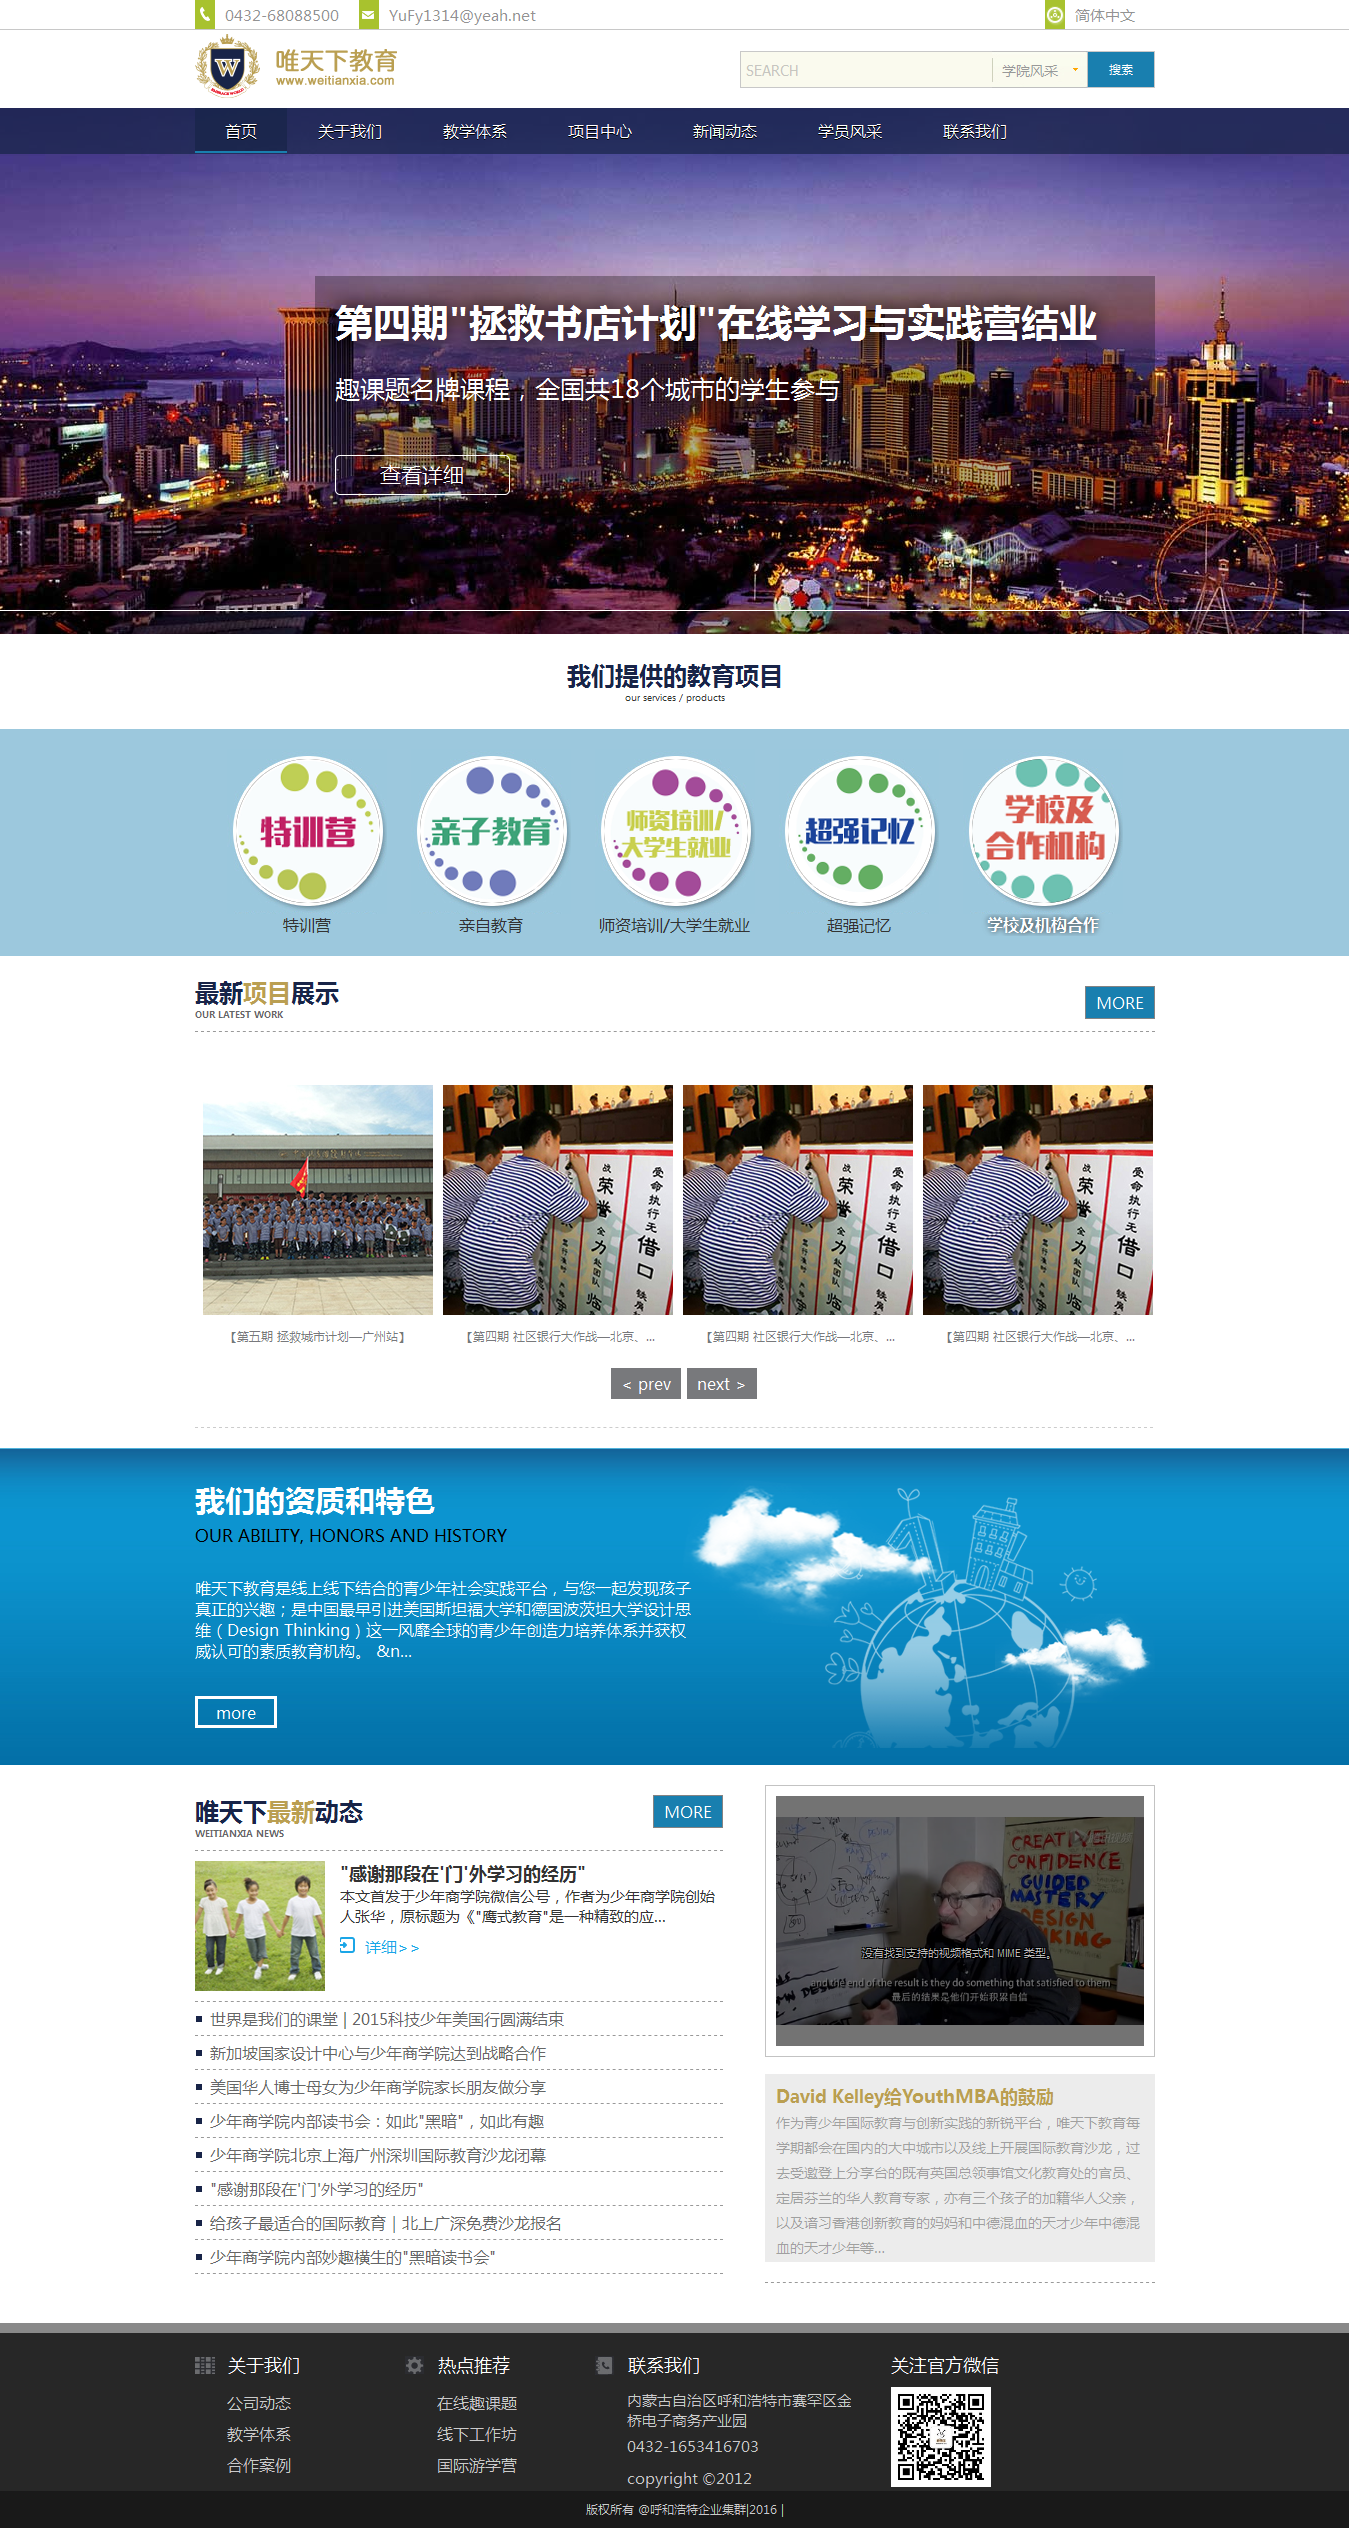
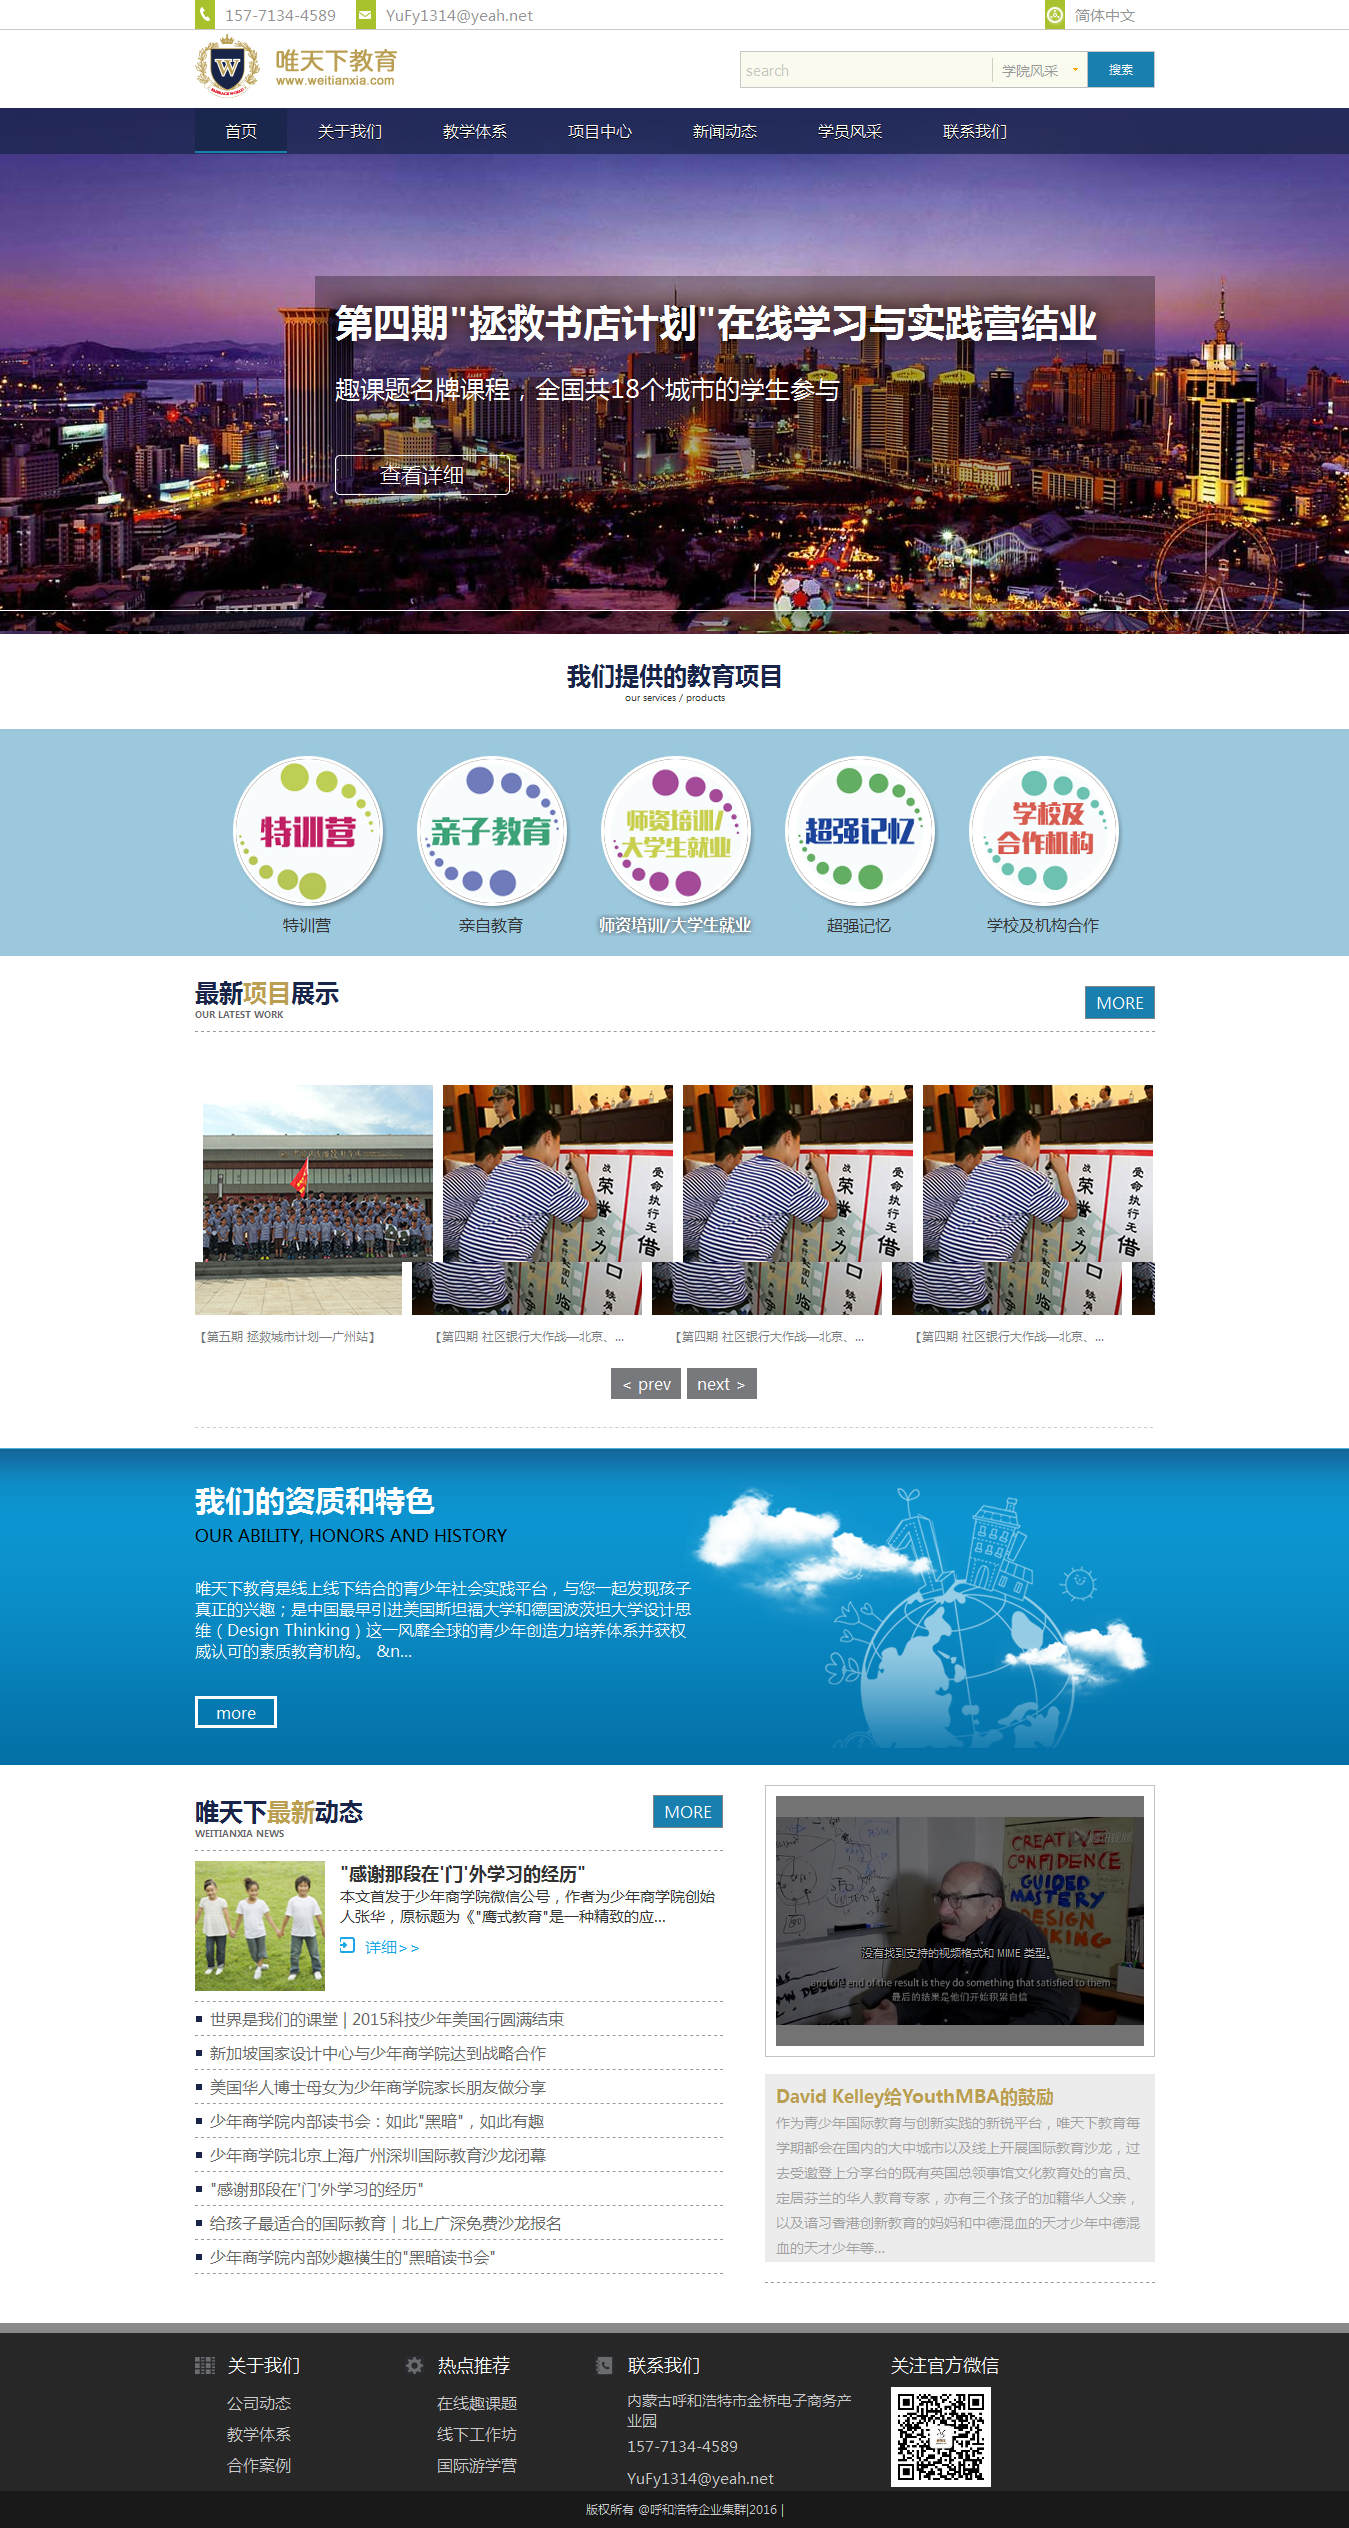
11

diff --git a/index.html b/index.html
@@ -168,7 +168,7 @@
 								<p>在内蒙古青城科技有限公司从日报社接的项目,只是还没有完成对接.</p>
 							</div>
 							<div id="button_2" class="button_2"> 
-								<a href="个人作品/北疆在线详细页/index.html">进入&gt;&gt;</a>
+								<a href="images/1.png">进入&gt;&gt;</a>
 							</div>
 							<script>
 								$("h3").onmouseover(function(){
@@ -188,7 +188,7 @@
 								<p>在青软实训基地完成的练习.</p>
 							</div>
 							<div class="button_2"> 
-								<a href="个人作品/慕课网/index.html">进入&gt;&gt;</a> 
+								<a href="images/2.png">进入&gt;&gt;</a> 
 							</div>
 						</div>
 						<div class="clear"> </div>
@@ -203,7 +203,7 @@
 								<p>在内蒙古青城网络科技公司做的练习,另外一个京东网站正在编写中.</p>
 							</div>
 							<div class="button_2"> 
-								<a href="个人作品/教育网/index.html">进入&gt;&gt;</a> 
+								<a href="images/3.png">进入&gt;&gt;</a> 
 							</div>
 						</div>
 						<div class="clear"> </div>
@@ -218,7 +218,7 @@
 								<p>在呼和浩特市企业集群完成的项目.</p>
 							</div>
 							<div class="button_2"> 
-								<a href="个人作品/秘书学系/index.html">进入&gt;&gt;</a> 
+								<a href="images/4.png">进入&gt;&gt;</a> 
 							</div>
 						</div>
 						<div class="clear"> </div>
@@ -233,7 +233,7 @@
 								<p>在青软实训基地上交的任务项目.</p>
 							</div>
 							<div class="button_2"> 
-								<a href="个人作品/翰益投资/index.html">进入&gt;&gt;</a> 
+								<a href="images/5.png">进入&gt;&gt;</a> 
 							</div>
 						</div>
 						<div class="clear"> </div>
@@ -402,10 +402,11 @@
 		<h3 class="heading">Contact</h3>
 		
 		<div class="contactfont">
-			<span class="col-xs-offset-3 col-xs-3">Tell<small style="font-size: 12px;color: red;">戳一下<i class="icon-hand-right"></i></small></span><a class="icon-phone icon-2x col-xs-6" href="tel:15771344589">15771344589</a>
+			<span class="col-xs-4">Tell<small style="font-size: 12px;color: red;">戳一下<i class="icon-hand-right"></i></small></span><a class="icon-phone icon-2x col-xs-6" href="tel:15771344589">15771344589</a>
 			<div class="clearfix"></div>
+			<span class="col-xs-4">SM<small style="font-size: 12px;color: red;">戳一下<i class="icon-hand-right"></i></small></span><a class="icon-envelope-alt icon-2x col-xs-6" href="sms:15771344589">15771344589</a>
 			<!--<a  icon-phone-sign href="sms:15771344589">给15771344589发短信</a>-->
-			<span class="col-xs-offset-3 col-xs-3">Email<small style="font-size: 12px;color: red;">戳一下<i class="icon-hand-right"></i></small></span><a class="icon-envelope-alt icon-2x col-xs-6" href="mailto:1653416703@qq.com">1653416703@qq.com</a>
+			<!--<span class="col-xs-4">Email<small style="font-size: 12px;color: red;">戳一下<i class="icon-hand-right"></i></small></span><a class="icon-envelope-alt icon-2x col-xs-6" href="mailto:1653416703@qq.com">1653416703@qq.com</a>-->
 		</div>
 		
 		<style>
